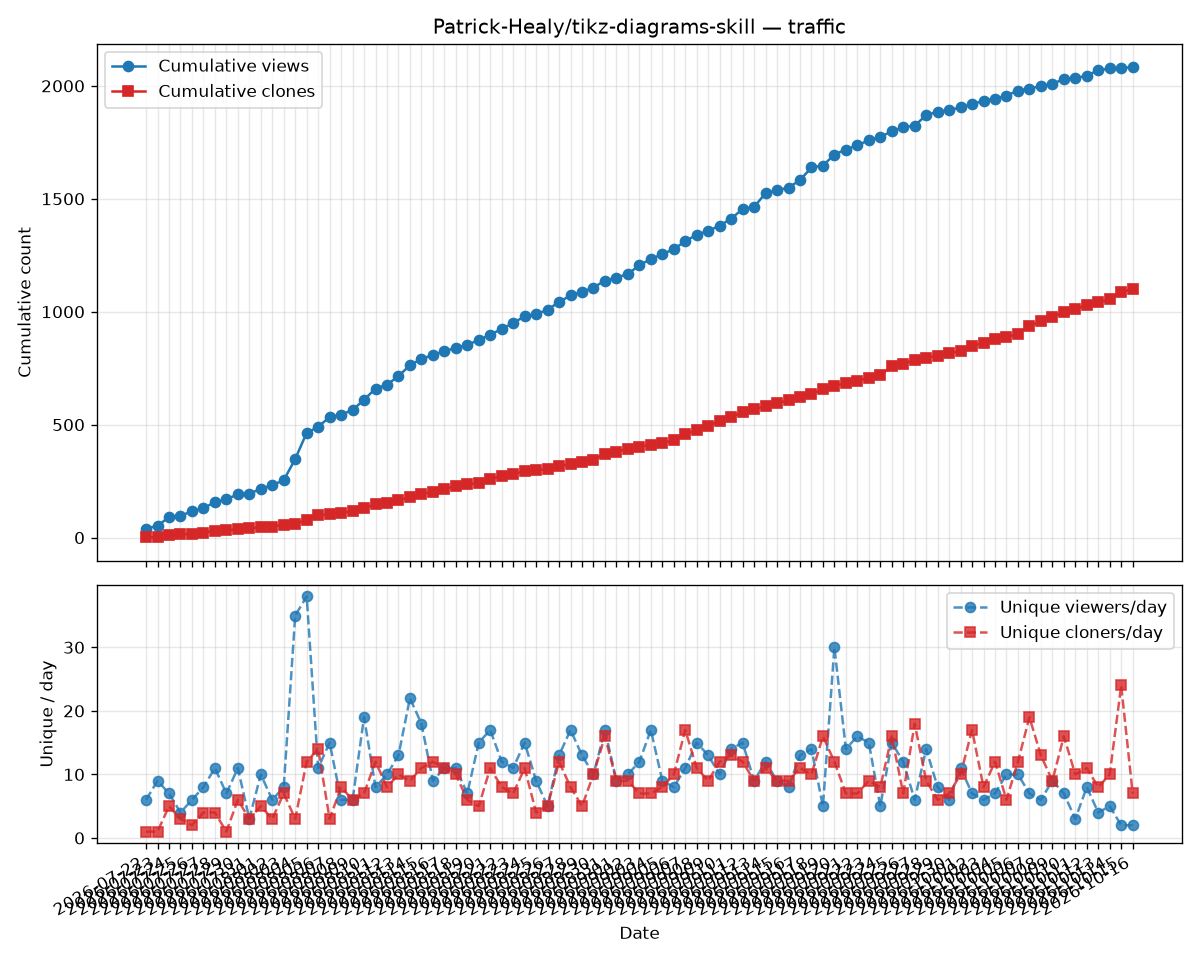
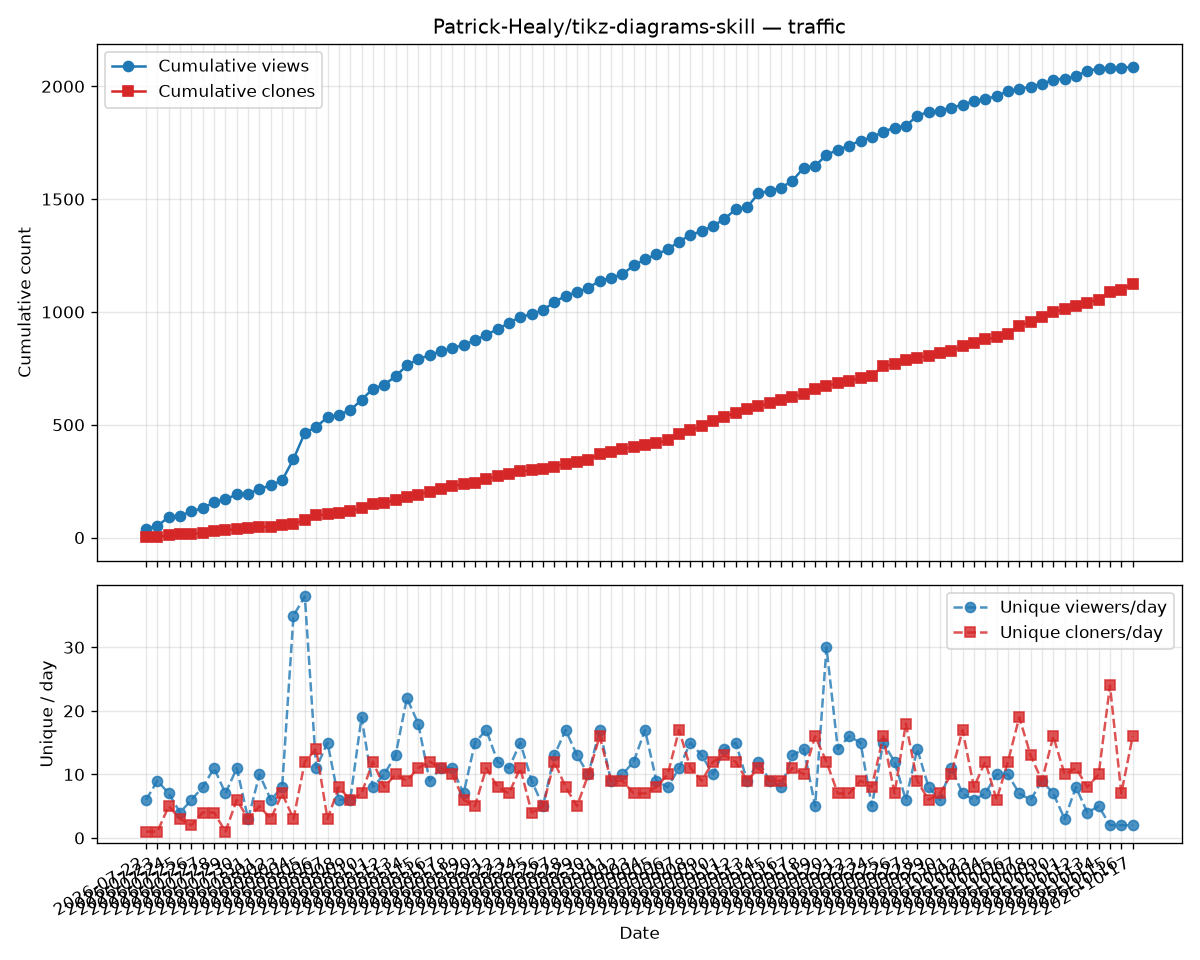
chore: update traffic stats [skip ci]

diff --git a/traffic/TRAFFIC.md b/traffic/TRAFFIC.md
@@ -93,7 +93,8 @@ window, so cross-day sums would double-count returning visitors).
 | 2026-10-14 | 8 | 2077 | 5 | 14 | 1055 | 10 |
 | 2026-10-15 | 2 | 2079 | 2 | 34 | 1089 | 24 |
 | 2026-10-16 | 4 | 2083 | 2 | 10 | 1099 | 7 |
+| 2026-10-17 | 2 | 2085 | 2 | 25 | 1124 | 16 |
 
-**Totals:** 2083 cumulative views · 1099 cumulative clones
+**Totals:** 2085 cumulative views · 1124 cumulative clones
 
 ![cumulative traffic](cumulative.png)
